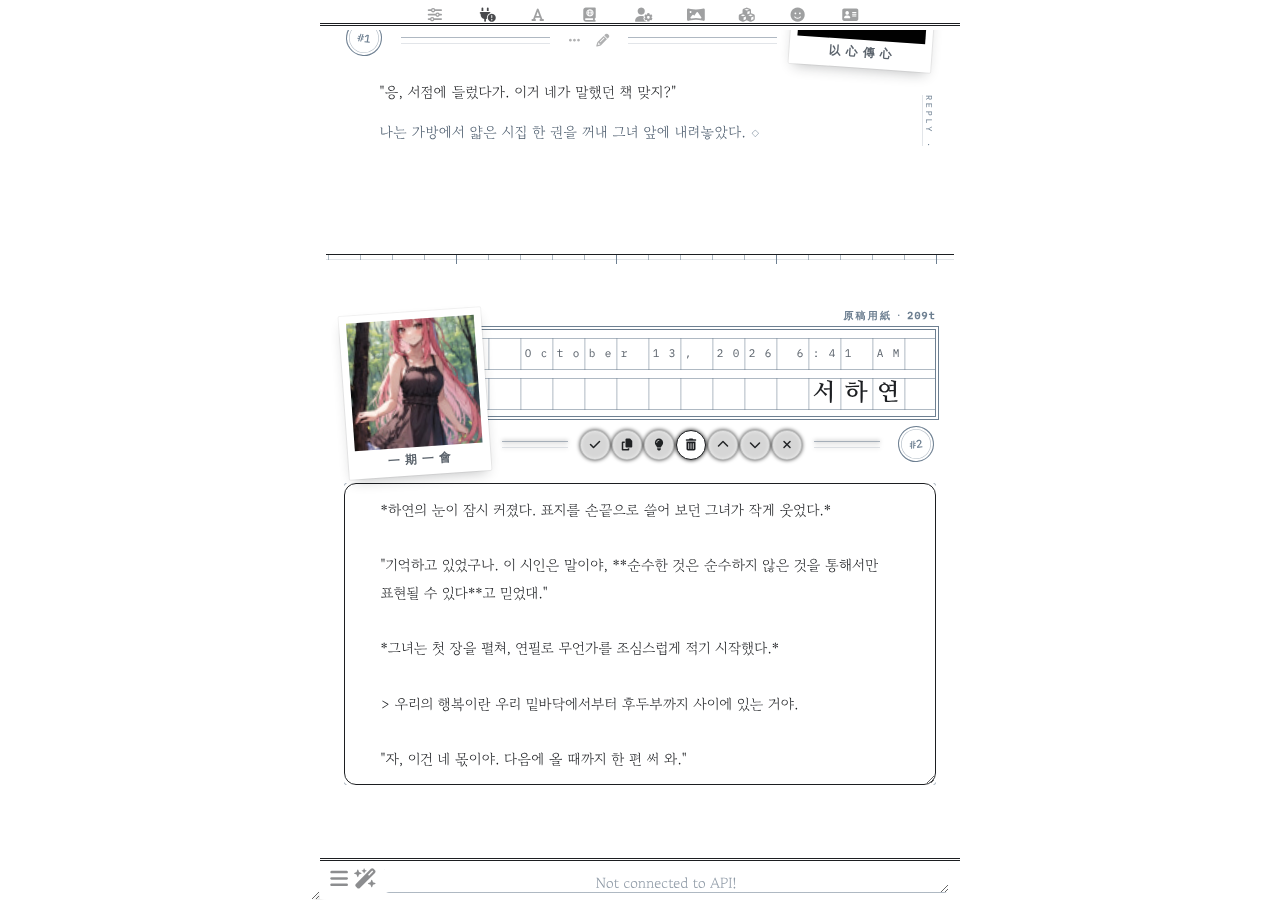
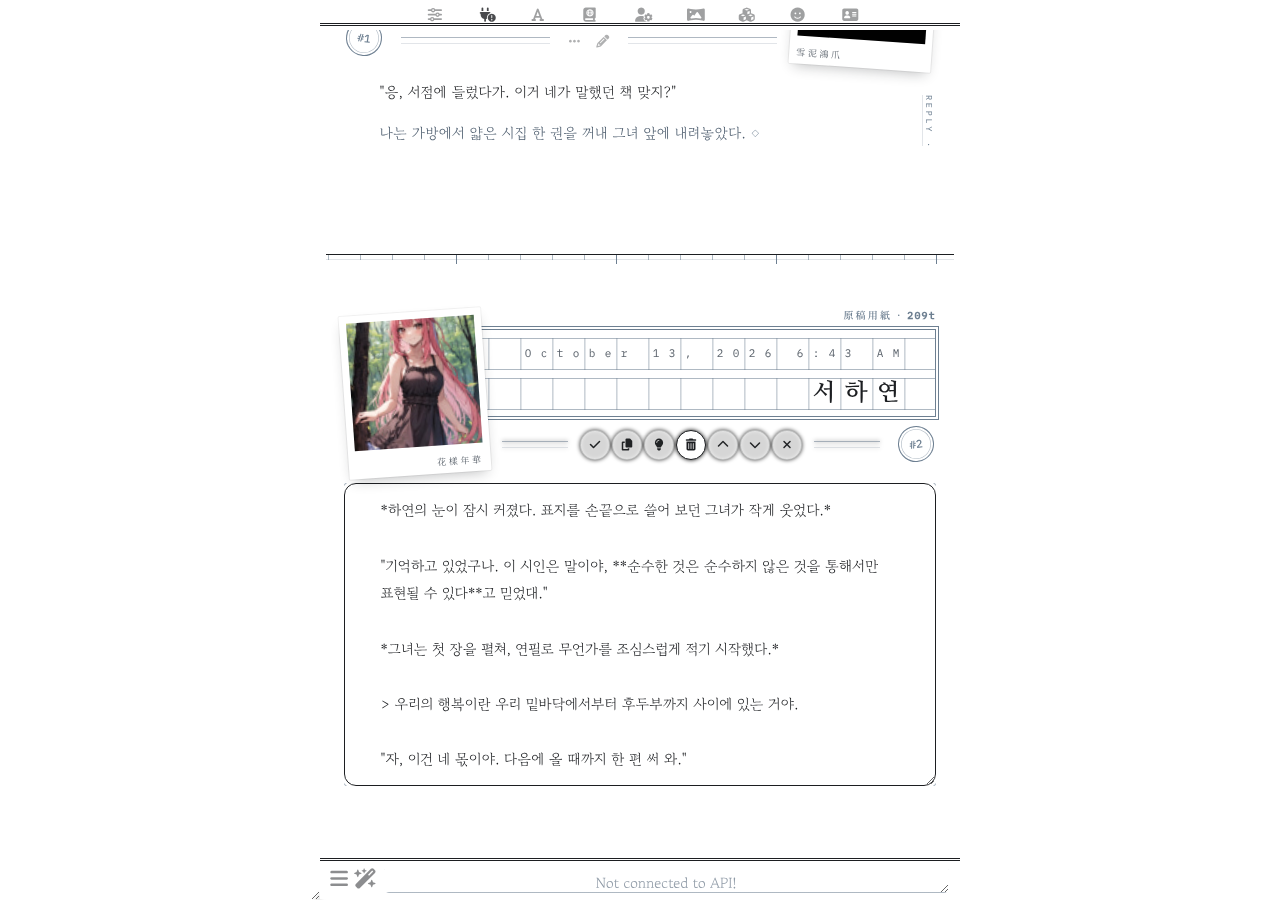
Wongoji: literary idiom captions in small Myeongjo, set in the corner
- Captions 花樣年華 / 雪泥鴻爪 with their meanings noted beside the
  variables
- Noto Serif KR loaded so Hanja render in Myeongjo instead of falling
  back to a sans font
- Caption shrunk and moved to the polaroid's bottom corner (right for
  character, left for user)

Claude-Session: https://claude.ai/code/session_01VxNZVdN99GR1yFwUVAN4mT

diff --git a/src/wongoji.css b/src/wongoji.css
@@ -1,4 +1,4 @@
-@import url('https://fonts.googleapis.com/css2?family=Gowun+Batang:wght@400;700&family=Nanum+Myeongjo:wght@400;700;800&family=IBM+Plex+Mono:wght@400;500&display=swap');
+@import url('https://fonts.googleapis.com/css2?family=Gowun+Batang:wght@400;700&family=Nanum+Myeongjo:wght@400;700;800&family=Noto+Serif+KR:wght@400;600&family=IBM+Plex+Mono:wght@400;500&display=swap');
 
 /* ==========================================================================
    원고지 · Wongoji — SillyTavern theme
@@ -32,17 +32,18 @@
 
     /* ── 폴라로이드 아래 글귀 ─────────────────────────────
        따옴표 안의 글자만 바꾸면 됩니다. 예) '春風秋雨', '그날의 기록'
-       一期一會 (일기일회) — 일생에 단 한 번의 만남
-       以心傳心 (이심전심) — 마음에서 마음으로 전함            */
-    --wg-caption-char: '一期一會';
-    --wg-caption-user: '以心傳心';
+       花樣年華 (화양연화) — 인생에서 가장 아름다운 한때
+       雪泥鴻爪 (설니홍조) — 눈 위에 남은 기러기 발자국, 덧없는 삶의 흔적  */
+    --wg-caption-char: '花樣年華';
+    --wg-caption-user: '雪泥鴻爪';
 
     /* 띠 위 여백에 인쇄된 이름 (토큰 수가 뒤에 붙습니다) */
     --wg-paper-label: '原稿用紙';
 
     /* 서체 */
     --wg-serif: 'Gowun Batang', 'Nanum Myeongjo', 'Noto Serif KR', serif;
-    --wg-title: 'Nanum Myeongjo', 'Gowun Batang', 'Noto Serif KR', serif;
+    --wg-title: 'Nanum Myeongjo', 'Noto Serif KR', 'Gowun Batang', serif;
+    --wg-hanja: 'Noto Serif KR', 'Nanum Myeongjo', serif;   /* 한자가 있는 명조 */
     --wg-mono: 'IBM Plex Mono', 'D2Coding', ui-monospace, monospace;
 
     /* 본문: 글자 크기와 행간 */
@@ -259,15 +260,15 @@ body {
     width: var(--wg-pol-w);
     height: var(--wg-pol-h);
     box-sizing: border-box;
-    padding: calc(var(--wg-photo) + var(--wg-frame)) 8px 0;
+    /* 아래 여백의 오른쪽 구석에 작게 */
+    padding: calc(var(--wg-photo) + var(--wg-frame) + var(--wg-chin) * 0.38) var(--wg-frame) 0;
     transform: rotate(var(--wg-tilt));
-    text-align: center;
-    font-family: var(--wg-title);
-    font-size: calc(var(--wg-chin) * 0.42);
-    font-weight: 700;
-    letter-spacing: 0.45em;
-    text-indent: 0.45em;
-    line-height: calc(var(--wg-chin) * 0.95);
+    text-align: right;
+    font-family: var(--wg-hanja);
+    font-size: calc(var(--wg-chin) * 0.32);
+    font-weight: 400;
+    letter-spacing: 0.3em;
+    line-height: calc(var(--wg-chin) * 0.45);
     color: var(--wg-ink-soft);
     white-space: nowrap;
     overflow: hidden;
@@ -898,6 +899,7 @@ body.no-tokenCount #chat .mes .ch_name::after {
 
 #chat .mes[is_user="true"]::after {
     content: var(--wg-caption-user);
+    text-align: left;
 }
 
 #chat .mes[is_user="true"]::after,

diff --git a/README.md b/README.md
@@ -14,14 +14,14 @@ SillyTavern UI 테마입니다. 흰 바탕과 먹, 청회색으로 인쇄된 원
   - 둘째 줄: 이름을 한 칸에 한 글자씩. 모두 끝 한 칸을 비우고 적습니다.
   - 띠 위 여백에는 `原稿用紙 · 412t`처럼 메시지의 토큰 수가 인쇄됩니다. 토큰 수 표시(Message Token Count)를 끄면 `原稿用紙`만 남습니다.
   - 띠 끝 아래에는 채팅 번호가 원형 도장으로 찍힙니다.
-- **폴라로이드**: 아바타는 컬러 폴라로이드로 띠 위에 비스듬히 겹쳐 놓입니다. 아래 여백에는 사자성어가 인쇄됩니다. 캐릭터는 `一期一會`(일기일회, 일생에 단 한 번의 만남), 유저는 `以心傳心`(이심전심, 마음에서 마음으로 전함)이고, 원하는 글귀로 쉽게 바꿀 수 있습니다(아래 참고).
+- **폴라로이드**: 아바타는 컬러 폴라로이드로 띠 위에 비스듬히 겹쳐 놓입니다. 아래 여백 구석에는 사자성어가 명조체로 작게 인쇄됩니다. 캐릭터는 `花樣年華`(화양연화, 인생에서 가장 아름다운 한때), 유저는 `雪泥鴻爪`(설니홍조, 눈 위에 남은 기러기 발자국처럼 덧없는 삶의 흔적)이고, 원하는 글귀로 쉽게 바꿀 수 있습니다(아래 참고).
 - **버튼 줄**: 띠와 본문 사이에 메시지 버튼을 두고, 그 양옆에 가는 이중 괘선을 그었습니다.
 - **본문**: 가독성을 위해 틀과 칸 배경 없이 종이 위에 바로 씁니다. 본문 옆에 책등처럼 세로 표기(`MANUSCRIPT · 原稿`, `REPLY · 答書`)가 붙고, 글 끝에는 마침 기호 `◇`가 찍힙니다.
 - **문장 표현**: 대사와 본문은 먹색, 지문과 속마음은 청회색입니다. 인용(`>`)은 책 뒤표지의 제사(題辭)처럼 큰 따옴표가 달린 가운데 정렬 청회색 상자로, 장면 전환(`---`)은 `＊`로 보입니다.
 - **색**: 화면 요소는 흑백과 청회색만 씁니다(아바타 사진은 원래 색 그대로). 유저 원고지는 아주 옅은 청회색이고, 그림자와 블러는 없습니다.
 - **상단 메뉴 · 입력창**: 아이콘을 작게 줄여 가운데로 모으고, 책 머리말처럼 이중 괘선으로 구분했습니다. 모바일에서도 입력창 아이콘이 PC처럼 한 줄로 놓입니다.
 
-서체(Google Fonts): 고운바탕(본문), 나눔명조(이름·제목·인용·폴라로이드), IBM Plex Mono(번호·날짜).
+서체(Google Fonts): 고운바탕(본문), 나눔명조(이름·제목·인용), Noto Serif KR(한자 글귀), IBM Plex Mono(번호·날짜).
 
 ## 설치
 
@@ -40,8 +40,8 @@ SillyTavern UI 테마입니다. 흰 바탕과 먹, 청회색으로 인쇄된 원
 SillyTavern → 사용자 설정 → **Custom CSS** 맨 위에서 아래 두 줄을 찾아 따옴표 안의 글자만 바꾸면 됩니다. 한자, 한글, 영문 모두 됩니다.
 
 ```css
---wg-caption-char: '一期一會';   /* 캐릭터 */
---wg-caption-user: '以心傳心';   /* 유저 */
+--wg-caption-char: '花樣年華';   /* 캐릭터 */
+--wg-caption-user: '雪泥鴻爪';   /* 유저 */
 ```
 
 바꾼 뒤 UI Theme 옆의 저장 버튼을 누르면 테마에 함께 저장됩니다.
